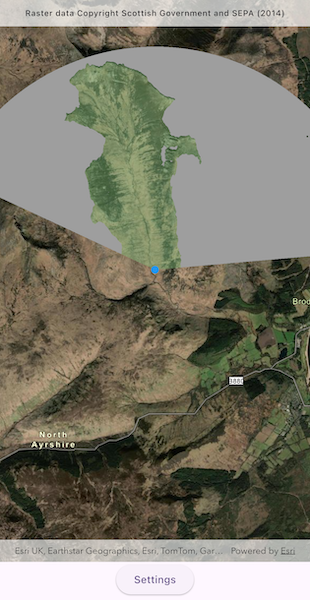
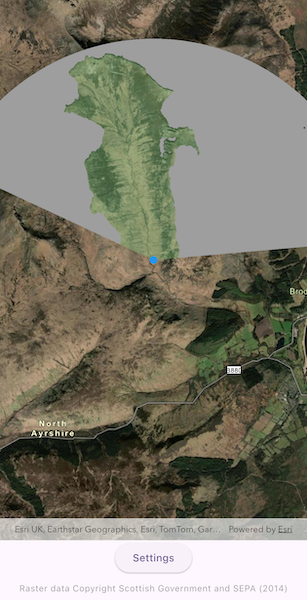
move copyright for consistency

diff --git a/lib/samples/show_interactive_viewshed_with_analysis_overlay/show_interactive_viewshed_with_analysis_overlay.dart b/lib/samples/show_interactive_viewshed_with_analysis_overlay/show_interactive_viewshed_with_analysis_overlay.dart
@@ -110,28 +110,14 @@ class _ShowInteractiveViewshedWithAnalysisOverlayState
                     ),
                   ],
                 ),
-              ],
-            ),
-            // Display a banner with a copyright notice.
-            SafeArea(
-              left: false,
-              right: false,
-              child: IgnorePointer(
-                child: Container(
-                  padding: const EdgeInsets.all(10),
-                  color: Colors.white.withValues(alpha: 0.7),
-                  child: Row(
-                    mainAxisAlignment: MainAxisAlignment.center,
-                    children: [
-                      Text(
-                        'Raster data Copyright Scottish Government and SEPA (2014)',
-                        textAlign: TextAlign.center,
-                        style: Theme.of(context).textTheme.labelSmall,
-                      ),
-                    ],
-                  ),
+                const SizedBox(height: 10),
+                Text(
+                  'Raster data Copyright Scottish Government and SEPA (2014)',
+                  style: Theme.of(
+                    context,
+                  ).textTheme.bodySmall?.copyWith(color: Colors.grey),
                 ),
-              ),
+              ],
             ),
             // Display a progress indicator and prevent interaction until state is ready.
             LoadingIndicator(visible: !_ready),
